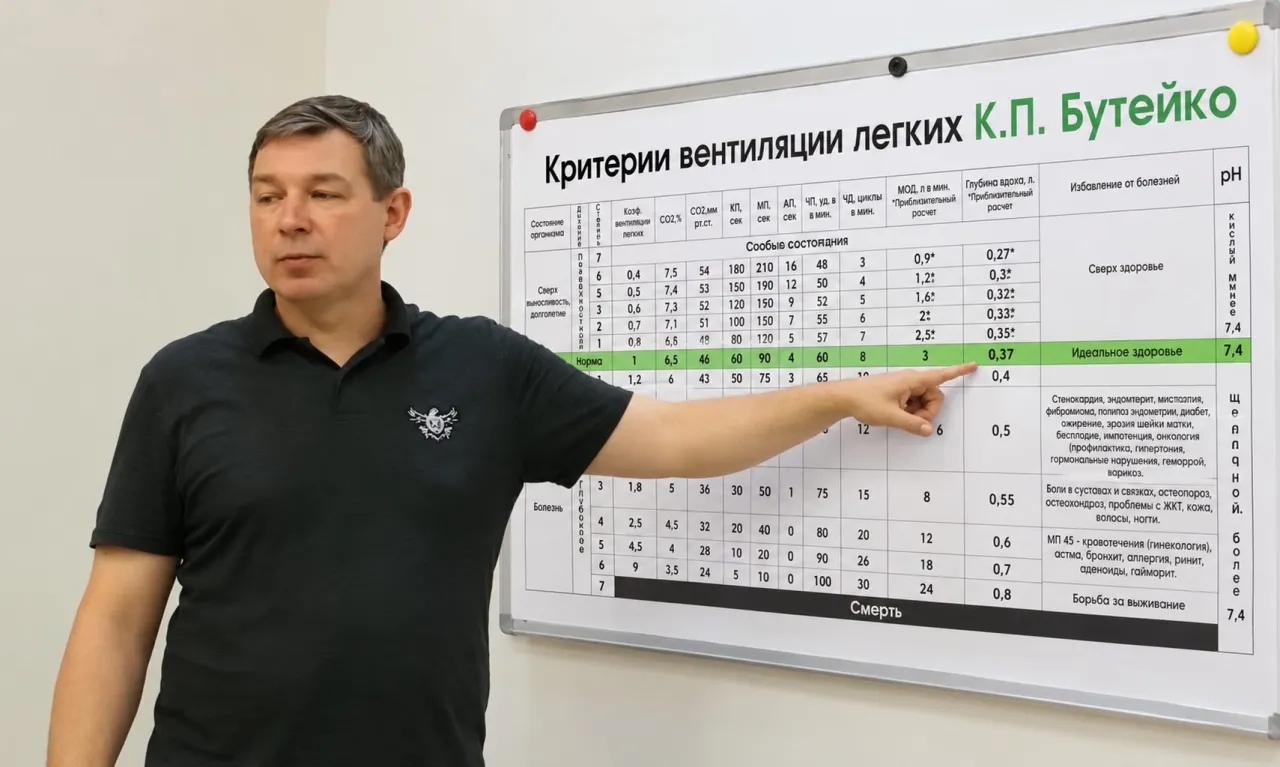
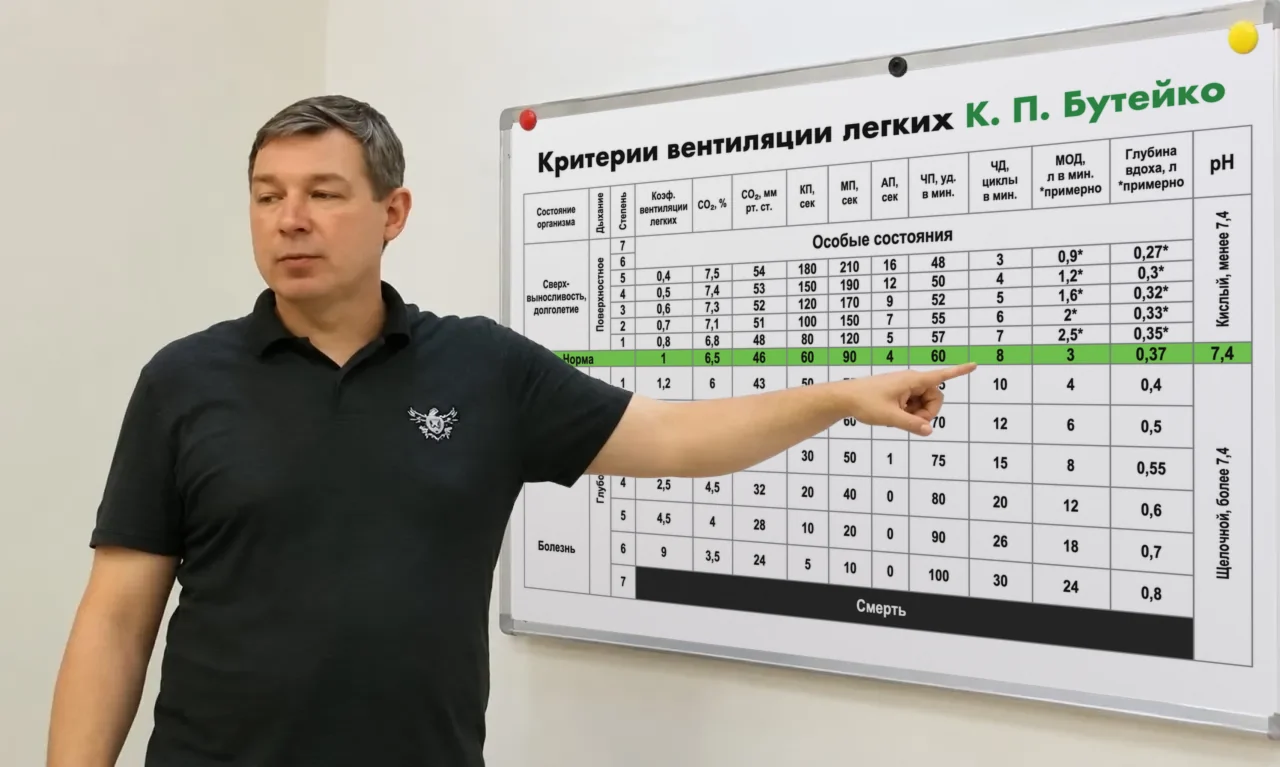
Обновление сайта 27.11.2026 16:56 (draft)

diff --git a/ru-metodistam.html b/ru-metodistam.html
@@ -138,23 +138,23 @@
         </div>
       </div>
       <ul class="md__list" data-md>
-            <li data-c="ua"><span class="md__name">Татьяна Прозорова</span><span class="md__city">Львов</span></li>
-            <li data-c="ua"><span class="md__name">Виктор Свириденко</span><span class="md__city">Киев</span></li>
-            <li data-c="ua"><span class="md__name">Лилия Черноусова</span><span class="md__city">Одесса</span></li>
-            <li data-c="ua"><span class="md__name">Ольга Волна</span><span class="md__city">Днепр</span></li>
-            <li data-c="de"><span class="md__name">Наталья Гринберг</span><span class="md__city">Мюнхен</span></li>
-            <li data-c="de"><span class="md__name">Надежда Зандер</span><span class="md__city">Оснабрюк</span></li>
-            <li data-c="de"><span class="md__name">Виталий Беккер</span><span class="md__city">Гиссен</span></li>
-            <li data-c="il"><span class="md__name">Михаил Подвицкий</span><span class="md__city">Ариэль</span></li>
-            <li data-c="il"><span class="md__name">Борис Фердман</span><span class="md__city">Реховот</span></li>
-            <li data-c="md"><span class="md__name">Ирина Черноморец</span><span class="md__city">Кишинёв</span></li>
-            <li data-c="md"><span class="md__name">Ала Тулбуре</span><span class="md__city">Кишинёв</span></li>
-            <li data-c="x"><span class="md__name">Наталья Бабенко</span><span class="md__city">Квебек, Канада</span></li>
-            <li data-c="x"><span class="md__name">Жанна Асанович</span><span class="md__city">Касабланка, Марокко</span></li>
-            <li data-c="x"><span class="md__name">Валерий Шакола</span><span class="md__city">Варна, Болгария</span></li>
-            <li data-c="x"><span class="md__name">Ильгиз Галимбеков</span><span class="md__city">Анталья, Турция</span></li>
-            <li data-c="x"><span class="md__name">Анастасия Креч</span><span class="md__city">Астана, Казахстан</span></li>
-            <li data-c="x"><span class="md__name">Елена Пьяных</span></li>
+            <li data-c="ua"><details class="md__d"><summary><span class="md__name">Татьяна Прозорова</span><span class="md__city">Львов</span><span class="md__more">Контакты</span></summary><div class="md__contacts"><a href="tel:+380500189455" data-where="registry">+380 50 018 9455</a><span class="md__apps"><a href="https://t.me/+380500189455" target="_blank" rel="noopener" data-where="registry">Telegram</a><a href="https://wa.me/380500189455" target="_blank" rel="noopener" data-where="registry">WhatsApp</a><a href="viber://chat?number=%2B380500189455" data-where="registry">Viber</a></span><span>Instagram, YouTube: tetiana.mentor</span></div></details></li>
+            <li data-c="ua"><details class="md__d"><summary><span class="md__name">Виктор Свириденко</span><span class="md__city">Киев</span><span class="md__more">Контакты</span></summary><div class="md__contacts"><span>+380675654843</span><span class="md__apps"><a href="https://t.me/+380675654843" target="_blank" rel="noopener" data-where="registry">Telegram</a><a href="https://wa.me/380675654843" target="_blank" rel="noopener" data-where="registry">WhatsApp</a></span><a href="mailto:kozakviter@gmail.com" data-where="registry">kozakviter@gmail.com</a></div></details></li>
+            <li data-c="ua"><details class="md__d"><summary><span class="md__name">Лилия Черноусова</span><span class="md__city">Одесса</span><span class="md__more">Контакты</span></summary><div class="md__contacts"><span>+380 97 395 2732</span><span class="md__apps"><a href="https://t.me/+380973952732" target="_blank" rel="noopener" data-where="registry">Telegram</a><a href="viber://chat?number=%2B380973952732" data-where="registry">Viber</a></span><a href="mailto:lilia.chernousova@gmail.com" data-where="registry">lilia.chernousova@gmail.com</a></div></details></li>
+            <li data-c="ua"><details class="md__d"><summary><span class="md__name">Ольга Волна</span><span class="md__city">Днепр</span><span class="md__more">Контакты</span></summary><div class="md__contacts"><span>+380 66 572 2909</span><span class="md__apps"><a href="https://t.me/+380665722909" target="_blank" rel="noopener" data-where="registry">Telegram</a></span></div></details></li>
+            <li data-c="de"><details class="md__d"><summary><span class="md__name">Наталья Гринберг</span><span class="md__city">Мюнхен</span><span class="md__more">Контакты</span></summary><div class="md__contacts"><a href="tel:+491781406634" data-where="registry">+49 178 140 6634</a><span class="md__apps"><a href="https://t.me/+491781406634" target="_blank" rel="noopener" data-where="registry">Telegram</a><a href="https://wa.me/491781406634" target="_blank" rel="noopener" data-where="registry">WhatsApp</a></span><a href="mailto:coaching@nataliagrinberg.de" data-where="registry">coaching@nataliagrinberg.de</a><a href="https://www.instagram.com/grinberg.natalia.coach/" target="_blank" rel="noopener" data-where="registry">Instagram: grinberg.natalia.coach</a><a href="https://www.nataliagrinberg.de" target="_blank" rel="noopener" data-where="registry">www.nataliagrinberg.de</a></div></details></li>
+            <li data-c="de"><details class="md__d"><summary><span class="md__name">Надежда Зандер</span><span class="md__city">Оснабрюк</span><span class="md__more">Контакты</span></summary><div class="md__contacts"><a href="tel:+4917664991832" data-where="registry">+49 176 649 91832</a><span class="md__apps"><a href="https://t.me/+4917664991832" target="_blank" rel="noopener" data-where="registry">Telegram</a><a href="https://wa.me/4917664991832" target="_blank" rel="noopener" data-where="registry">WhatsApp</a></span></div></details></li>
+            <li data-c="de"><details class="md__d"><summary><span class="md__name">Виталий Беккер</span><span class="md__city">Гиссен</span><span class="md__more">Контакты</span></summary><div class="md__contacts"><span>+49 178 7120433</span><span class="md__apps"><a href="https://wa.me/491787120433" target="_blank" rel="noopener" data-where="registry">WhatsApp</a></span><a href="mailto:vitalij.b@gmx.net" data-where="registry">vitalij.b@gmx.net</a></div></details></li>
+            <li data-c="il"><details class="md__d"><summary><span class="md__name">Михаил Подвицкий</span><span class="md__city">Ариэль</span><span class="md__more">Контакты</span></summary><div class="md__contacts"><a href="tel:+972515107257" data-where="registry">+972 51 510 7257</a><span class="md__apps"><a href="https://t.me/+972515107257" target="_blank" rel="noopener" data-where="registry">Telegram</a><a href="https://wa.me/972515107257" target="_blank" rel="noopener" data-where="registry">WhatsApp</a></span></div></details></li>
+            <li data-c="il"><details class="md__d"><summary><span class="md__name">Борис Фердман</span><span class="md__city">Реховот</span><span class="md__more">Контакты</span></summary><div class="md__contacts"><a href="tel:+972546121273" data-where="registry">+972 54 612 1273</a><span class="md__apps"><a href="https://t.me/+972546121273" target="_blank" rel="noopener" data-where="registry">Telegram</a><a href="https://wa.me/972546121273" target="_blank" rel="noopener" data-where="registry">WhatsApp</a><a href="viber://chat?number=%2B972546121273" data-where="registry">Viber</a></span></div></details></li>
+            <li data-c="md"><details class="md__d"><summary><span class="md__name">Ирина Черноморец</span><span class="md__city">Кишинёв</span><span class="md__more">Контакты</span></summary><div class="md__contacts"><a href="tel:+37369624146" data-where="registry">+373 69 624 146</a><span class="md__apps"><a href="https://t.me/+37369624146" target="_blank" rel="noopener" data-where="registry">Telegram</a><a href="viber://chat?number=%2B37369624146" data-where="registry">Viber</a></span></div></details></li>
+            <li data-c="md"><details class="md__d"><summary><span class="md__name">Ала Тулбуре</span><span class="md__city">Кишинёв</span><span class="md__more">Контакты</span></summary><div class="md__contacts"><a href="tel:+37360809342" data-where="registry">+373 60 809 342</a><a href="mailto:tulbureala@gmail.com" data-where="registry">tulbureala@gmail.com</a></div></details></li>
+            <li data-c="x"><details class="md__d"><summary><span class="md__name">Наталья Бабенко</span><span class="md__city">Квебек, Канада</span><span class="md__more">Контакты</span></summary><div class="md__contacts"><a href="tel:+15813985708" data-where="registry">+1 581 398 5708</a></div></details></li>
+            <li data-c="x"><details class="md__d"><summary><span class="md__name">Жанна Асанович</span><span class="md__city">Касабланка, Марокко</span><span class="md__more">Контакты</span></summary><div class="md__contacts"><a href="tel:+212662088750" data-where="registry">+212 662 08 87 50</a><span class="md__apps"><a href="https://t.me/+212662088750" target="_blank" rel="noopener" data-where="registry">Telegram</a><a href="https://wa.me/212662088750" target="_blank" rel="noopener" data-where="registry">WhatsApp</a><a href="viber://chat?number=%2B212662088750" data-where="registry">Viber</a></span></div></details></li>
+            <li data-c="x"><details class="md__d"><summary><span class="md__name">Валерий Шакола</span><span class="md__city">Варна, Болгария</span><span class="md__more">Контакты</span></summary><div class="md__contacts"><span>+359 887 220 161</span><span class="md__apps"><a href="https://wa.me/359887220161" target="_blank" rel="noopener" data-where="registry">WhatsApp</a><a href="viber://chat?number=%2B359887220161" data-where="registry">Viber</a></span></div></details></li>
+            <li data-c="x"><details class="md__d"><summary><span class="md__name">Ильгиз Галимбеков</span><span class="md__city">Анталья, Турция</span><span class="md__more">Контакты</span></summary><div class="md__contacts"><span class="md__apps"><a href="https://t.me/ilgiz_metod" target="_blank" rel="noopener" data-where="registry">Telegram</a></span></div></details></li>
+            <li data-c="x"><details class="md__d"><summary><span class="md__name">Анастасия Креч</span><span class="md__city">Астана, Казахстан</span><span class="md__more">Контакты</span></summary><div class="md__contacts"><span>+7 701 171 1990</span><span class="md__apps"><a href="https://wa.me/77011711990" target="_blank" rel="noopener" data-where="registry">WhatsApp</a><a href="https://t.me/Anastassiya_Krech" target="_blank" rel="noopener" data-where="registry">Telegram</a></span><a href="https://www.instagram.com/bodyflex_astana/" target="_blank" rel="noopener" data-where="registry">Instagram: bodyflex_astana</a></div></details></li>
+            <li data-c="x"><details class="md__d"><summary><span class="md__name">Елена Пьяных</span><span class="md__more">Контакты</span></summary><div class="md__contacts"><span class="md__apps"><a href="https://t.me/mellena488" target="_blank" rel="noopener" data-where="registry">Telegram</a></span></div></details></li>
             <li class="md__you" data-c="all"><a href="https://t.me/alikmullahmetov" data-where="registry" target="_blank" rel="noopener"><span class="md__name">Здесь может быть ваше имя</span><span class="md__city">Стать методистом за 2 месяца →</span></a></li>
       </ul>
     </div>

diff --git a/en/instructor-training.html b/en/instructor-training.html
@@ -139,23 +139,23 @@
         </div>
       </div>
       <ul class="md__list" data-md>
-            <li data-c="ua"><span class="md__name">Tatiana Prozorova</span><span class="md__city">Lviv</span></li>
-            <li data-c="ua"><span class="md__name">Viktor Sviridenko</span><span class="md__city">Kyiv</span></li>
-            <li data-c="ua"><span class="md__name">Lilia Chernousova</span><span class="md__city">Odesa</span></li>
-            <li data-c="ua"><span class="md__name">Olga Volna</span><span class="md__city">Dnipro</span></li>
-            <li data-c="de"><span class="md__name">Natalia Grinberg</span><span class="md__city">Munich</span></li>
-            <li data-c="de"><span class="md__name">Nadezhda Zander</span><span class="md__city">Osnabrück</span></li>
-            <li data-c="de"><span class="md__name">Vitalij Becker</span><span class="md__city">Giessen</span></li>
-            <li data-c="il"><span class="md__name">Mikhail Podvitsky</span><span class="md__city">Ariel</span></li>
-            <li data-c="il"><span class="md__name">Boris Ferdman</span><span class="md__city">Rehovot</span></li>
-            <li data-c="md"><span class="md__name">Irina Chernomorets</span><span class="md__city">Chisinau</span></li>
-            <li data-c="md"><span class="md__name">Ala Tulbure</span><span class="md__city">Chisinau</span></li>
-            <li data-c="x"><span class="md__name">Natalia Babenko</span><span class="md__city">Quebec, Canada</span></li>
-            <li data-c="x"><span class="md__name">Zhanna Asanovich</span><span class="md__city">Casablanca, Morocco</span></li>
-            <li data-c="x"><span class="md__name">Valery Shakola</span><span class="md__city">Varna, Bulgaria</span></li>
-            <li data-c="x"><span class="md__name">Ilgiz Galimbekov</span><span class="md__city">Antalya, Turkey</span></li>
-            <li data-c="x"><span class="md__name">Anastasia Krech</span><span class="md__city">Astana, Kazakhstan</span></li>
-            <li data-c="x"><span class="md__name">Elena Pyanykh</span></li>
+            <li data-c="ua"><details class="md__d"><summary><span class="md__name">Tetiana Prozorova</span><span class="md__city">Lviv</span><span class="md__more">Contacts</span></summary><div class="md__contacts"><a href="tel:+380500189455" data-where="registry">+380 50 018 9455</a><span class="md__apps"><a href="https://t.me/+380500189455" target="_blank" rel="noopener" data-where="registry">Telegram</a><a href="https://wa.me/380500189455" target="_blank" rel="noopener" data-where="registry">WhatsApp</a><a href="viber://chat?number=%2B380500189455" data-where="registry">Viber</a></span><span>Instagram, YouTube: tetiana.mentor</span></div></details></li>
+            <li data-c="ua"><details class="md__d"><summary><span class="md__name">Viktor Svyrydenko</span><span class="md__city">Kyiv</span><span class="md__more">Contacts</span></summary><div class="md__contacts"><span>+380675654843</span><span class="md__apps"><a href="https://t.me/+380675654843" target="_blank" rel="noopener" data-where="registry">Telegram</a><a href="https://wa.me/380675654843" target="_blank" rel="noopener" data-where="registry">WhatsApp</a></span><a href="mailto:kozakviter@gmail.com" data-where="registry">kozakviter@gmail.com</a></div></details></li>
+            <li data-c="ua"><details class="md__d"><summary><span class="md__name">Lilia Chernousova</span><span class="md__city">Odesa</span><span class="md__more">Contacts</span></summary><div class="md__contacts"><span>+380 97 395 2732</span><span class="md__apps"><a href="https://t.me/+380973952732" target="_blank" rel="noopener" data-where="registry">Telegram</a><a href="viber://chat?number=%2B380973952732" data-where="registry">Viber</a></span><a href="mailto:lilia.chernousova@gmail.com" data-where="registry">lilia.chernousova@gmail.com</a></div></details></li>
+            <li data-c="ua"><details class="md__d"><summary><span class="md__name">Olha Volna</span><span class="md__city">Dnipro</span><span class="md__more">Contacts</span></summary><div class="md__contacts"><span>+380 66 572 2909</span><span class="md__apps"><a href="https://t.me/+380665722909" target="_blank" rel="noopener" data-where="registry">Telegram</a></span></div></details></li>
+            <li data-c="de"><details class="md__d"><summary><span class="md__name">Natalia Grinberg</span><span class="md__city">Munich</span><span class="md__more">Contacts</span></summary><div class="md__contacts"><a href="tel:+491781406634" data-where="registry">+49 178 140 6634</a><span class="md__apps"><a href="https://t.me/+491781406634" target="_blank" rel="noopener" data-where="registry">Telegram</a><a href="https://wa.me/491781406634" target="_blank" rel="noopener" data-where="registry">WhatsApp</a></span><a href="mailto:coaching@nataliagrinberg.de" data-where="registry">coaching@nataliagrinberg.de</a><a href="https://www.instagram.com/grinberg.natalia.coach/" target="_blank" rel="noopener" data-where="registry">Instagram: grinberg.natalia.coach</a><a href="https://www.nataliagrinberg.de" target="_blank" rel="noopener" data-where="registry">www.nataliagrinberg.de</a></div></details></li>
+            <li data-c="de"><details class="md__d"><summary><span class="md__name">Nadezhda Zander</span><span class="md__city">Osnabrück</span><span class="md__more">Contacts</span></summary><div class="md__contacts"><a href="tel:+4917664991832" data-where="registry">+49 176 649 91832</a><span class="md__apps"><a href="https://t.me/+4917664991832" target="_blank" rel="noopener" data-where="registry">Telegram</a><a href="https://wa.me/4917664991832" target="_blank" rel="noopener" data-where="registry">WhatsApp</a></span></div></details></li>
+            <li data-c="de"><details class="md__d"><summary><span class="md__name">Vitalij Becker</span><span class="md__city">Giessen</span><span class="md__more">Contacts</span></summary><div class="md__contacts"><span>+49 178 7120433</span><span class="md__apps"><a href="https://wa.me/491787120433" target="_blank" rel="noopener" data-where="registry">WhatsApp</a></span><a href="mailto:vitalij.b@gmx.net" data-where="registry">vitalij.b@gmx.net</a></div></details></li>
+            <li data-c="il"><details class="md__d"><summary><span class="md__name">Mikhail Podvitsky</span><span class="md__city">Ariel</span><span class="md__more">Contacts</span></summary><div class="md__contacts"><a href="tel:+972515107257" data-where="registry">+972 51 510 7257</a><span class="md__apps"><a href="https://t.me/+972515107257" target="_blank" rel="noopener" data-where="registry">Telegram</a><a href="https://wa.me/972515107257" target="_blank" rel="noopener" data-where="registry">WhatsApp</a></span></div></details></li>
+            <li data-c="il"><details class="md__d"><summary><span class="md__name">Boris Ferdman</span><span class="md__city">Rehovot</span><span class="md__more">Contacts</span></summary><div class="md__contacts"><a href="tel:+972546121273" data-where="registry">+972 54 612 1273</a><span class="md__apps"><a href="https://t.me/+972546121273" target="_blank" rel="noopener" data-where="registry">Telegram</a><a href="https://wa.me/972546121273" target="_blank" rel="noopener" data-where="registry">WhatsApp</a><a href="viber://chat?number=%2B972546121273" data-where="registry">Viber</a></span></div></details></li>
+            <li data-c="md"><details class="md__d"><summary><span class="md__name">Irina Chernomorets</span><span class="md__city">Chisinau</span><span class="md__more">Contacts</span></summary><div class="md__contacts"><a href="tel:+37369624146" data-where="registry">+373 69 624 146</a><span class="md__apps"><a href="https://t.me/+37369624146" target="_blank" rel="noopener" data-where="registry">Telegram</a><a href="viber://chat?number=%2B37369624146" data-where="registry">Viber</a></span></div></details></li>
+            <li data-c="md"><details class="md__d"><summary><span class="md__name">Ala Tulbure</span><span class="md__city">Chisinau</span><span class="md__more">Contacts</span></summary><div class="md__contacts"><a href="tel:+37360809342" data-where="registry">+373 60 809 342</a><a href="mailto:tulbureala@gmail.com" data-where="registry">tulbureala@gmail.com</a></div></details></li>
+            <li data-c="x"><details class="md__d"><summary><span class="md__name">Natalia Babenko</span><span class="md__city">Quebec, Canada</span><span class="md__more">Contacts</span></summary><div class="md__contacts"><a href="tel:+15813985708" data-where="registry">+1 581 398 5708</a></div></details></li>
+            <li data-c="x"><details class="md__d"><summary><span class="md__name">Zhanna Asanovich</span><span class="md__city">Casablanca, Morocco</span><span class="md__more">Contacts</span></summary><div class="md__contacts"><a href="tel:+212662088750" data-where="registry">+212 662 08 87 50</a><span class="md__apps"><a href="https://t.me/+212662088750" target="_blank" rel="noopener" data-where="registry">Telegram</a><a href="https://wa.me/212662088750" target="_blank" rel="noopener" data-where="registry">WhatsApp</a><a href="viber://chat?number=%2B212662088750" data-where="registry">Viber</a></span></div></details></li>
+            <li data-c="x"><details class="md__d"><summary><span class="md__name">Valeriy Shakola</span><span class="md__city">Varna, Bulgaria</span><span class="md__more">Contacts</span></summary><div class="md__contacts"><span>+359 887 220 161</span><span class="md__apps"><a href="https://wa.me/359887220161" target="_blank" rel="noopener" data-where="registry">WhatsApp</a><a href="viber://chat?number=%2B359887220161" data-where="registry">Viber</a></span></div></details></li>
+            <li data-c="x"><details class="md__d"><summary><span class="md__name">Ilgiz Galimbekov</span><span class="md__city">Antalya, Turkey</span><span class="md__more">Contacts</span></summary><div class="md__contacts"><span class="md__apps"><a href="https://t.me/ilgiz_metod" target="_blank" rel="noopener" data-where="registry">Telegram</a></span></div></details></li>
+            <li data-c="x"><details class="md__d"><summary><span class="md__name">Anastasia Krech</span><span class="md__city">Astana, Kazakhstan</span><span class="md__more">Contacts</span></summary><div class="md__contacts"><span>+7 701 171 1990</span><span class="md__apps"><a href="https://wa.me/77011711990" target="_blank" rel="noopener" data-where="registry">WhatsApp</a><a href="https://t.me/Anastassiya_Krech" target="_blank" rel="noopener" data-where="registry">Telegram</a></span><a href="https://www.instagram.com/bodyflex_astana/" target="_blank" rel="noopener" data-where="registry">Instagram: bodyflex_astana</a></div></details></li>
+            <li data-c="x"><details class="md__d"><summary><span class="md__name">Elena Pyanykh</span><span class="md__more">Contacts</span></summary><div class="md__contacts"><span class="md__apps"><a href="https://t.me/mellena488" target="_blank" rel="noopener" data-where="registry">Telegram</a></span></div></details></li>
             <li class="md__you" data-c="all"><a href="https://t.me/alikmullahmetov" data-where="registry" target="_blank" rel="noopener"><span class="md__name">Your name could be here</span><span class="md__city">Become an instructor in 2 months →</span></a></li>
       </ul>
     </div>

diff --git a/assets/brand.css b/assets/brand.css
@@ -119,3 +119,16 @@ main > :is(#registry,#inside).section > .wrap{height:auto}
   :where(main > :is(section,.section):not(.hero,.section--hero)){display:flex;flex-direction:column}
   main > :is(section,.section):not(.hero,.section--hero) > :is(.wrap,.container){flex:1 0 auto;height:auto;min-height:0}
 }
+
+/* 27.11.2026: methodist contacts open by the name inside the registry card */
+#registry .md__list{align-items:start}
+.md__d summary{display:block;cursor:pointer;list-style:none}
+.md__d summary::-webkit-details-marker{display:none}
+.md__more{display:inline-block;margin-top:10px;font-size:var(--t-small);font-weight:600;text-decoration:underline;text-underline-offset:4px}
+.md__more::after{content:" +"}
+.md__d[open] .md__more::after{content:" \2212"}
+.md__contacts{display:grid;gap:10px;justify-items:start;margin-top:12px;font-size:var(--t-small);overflow-wrap:anywhere}
+#registry .md__contacts a{color:inherit}
+.md__apps{display:flex;flex-wrap:wrap;gap:8px}
+#registry .md__apps a{display:inline-flex;align-items:center;min-height:36px;padding:0 14px;border:1px solid currentColor;border-radius:999px;text-decoration:none}
+#registry .md__contacts>a{text-decoration:underline;text-underline-offset:3px}
